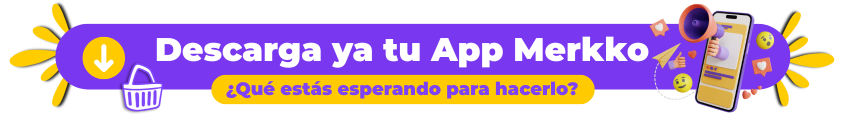
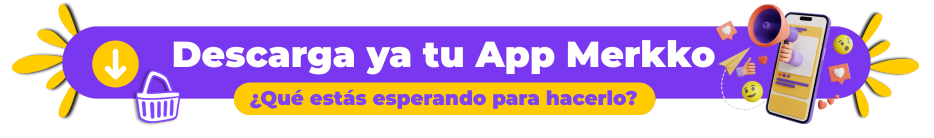
Update header advice style and image
Changed the .header-advice CSS to use a new background color and adjusted padding. Replaced header-advice.png with a new version to match updated design.

diff --git a/CustomEcommerce/NopCommerce/Presentation/Nop.Web/Themes/MarketTheme/Content/css/styles.css b/CustomEcommerce/NopCommerce/Presentation/Nop.Web/Themes/MarketTheme/Content/css/styles.css
@@ -8631,7 +8631,8 @@ stroke: #333; /* Asegúrate de que el color se aplique bien */
 
 .header-advice {
     text-align: center;
-    padding: 10px 0;
+    background-color: #FDC345;
+    padding-top: 8px;
     cursor: pointer;
     display: none;
 }
